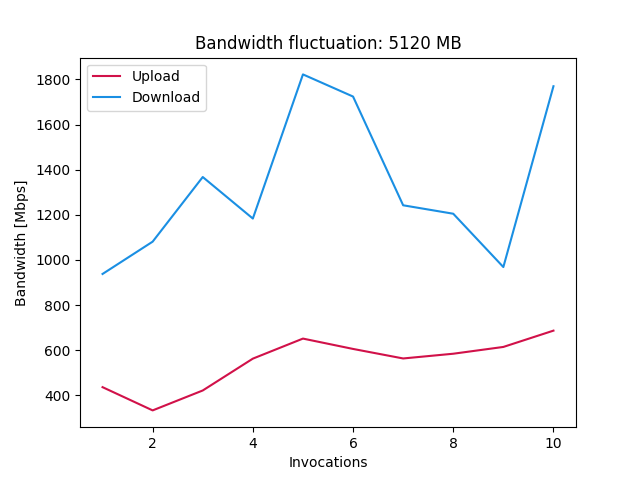
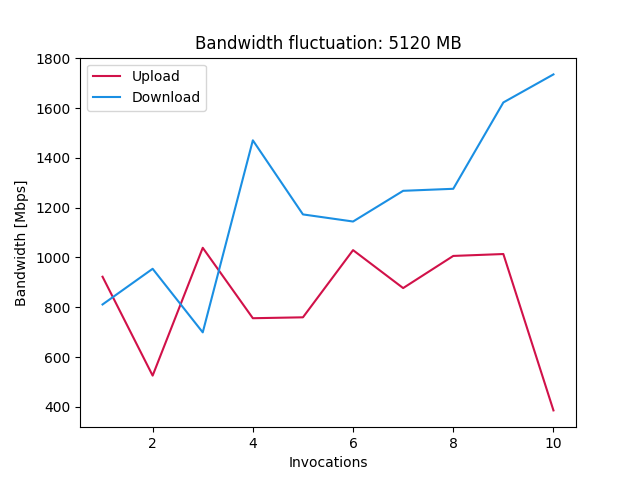
Added time tests

diff --git a/scripts/graph.py b/scripts/graph.py
@@ -76,7 +76,7 @@ def generate_graph_bandwidth(api_results):
     ax.set_xticks(x + width + width/2)
     ax.set_xticklabels(x_labels)
     ax.set_xlabel('Memory [MB]')
-    ax.set_title('Bandwidth of AWS Lambda function with different memory sizes')
+    ax.set_title('Bandwidth at 10:00')
     ax.legend()
 
     fig.tight_layout()

diff --git a/README.md b/README.md
@@ -42,7 +42,9 @@ The graph shows the upload and download bandwith in relation to the memory size.
 
 I ran my tests at different times of the day to see if there is a difference in the bandwith. The idea behind this test was, that the usage of the AWS Lambda instances might be different at different times of the day. So it might be possible, that we reach higher numbers at night, when less people are using the same AWS Lambda instances.
 
-![bandwith_memory](images/bandwidth.png)
+![bandwith_memory](images/bandwidth_1000.png)
+![bandwith_memory](images/bandwidth_1500.png)
+![bandwith_memory](images/bandwidth_2300.png)
 
 ## Fluctuation of the tests
 
